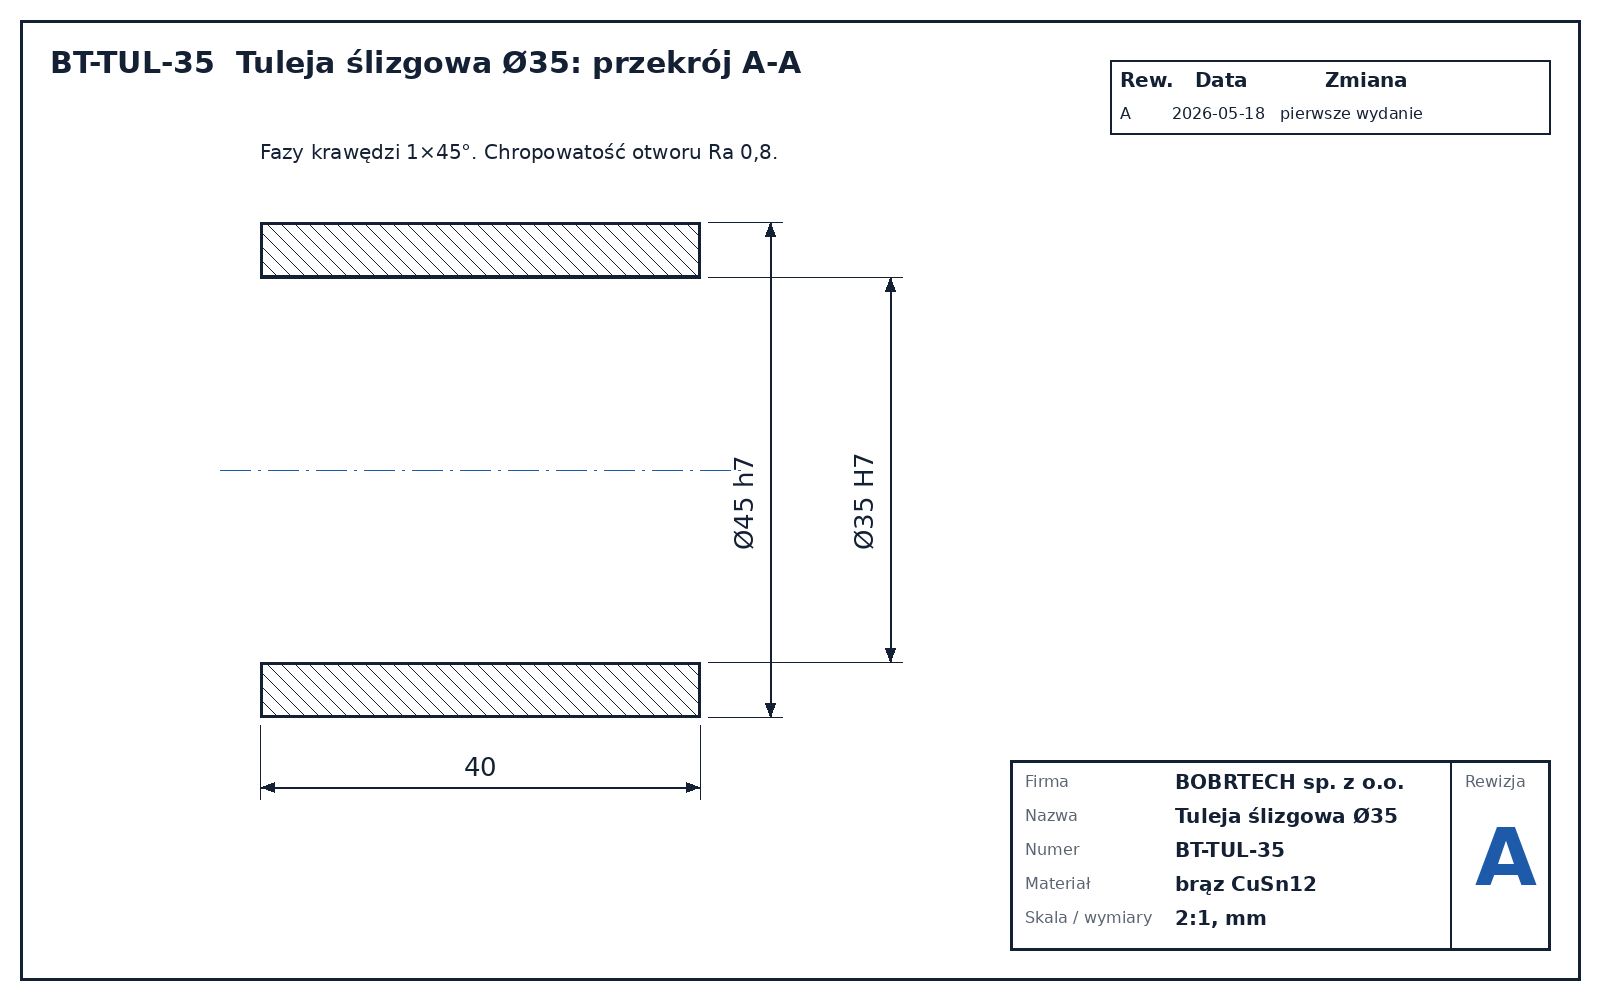
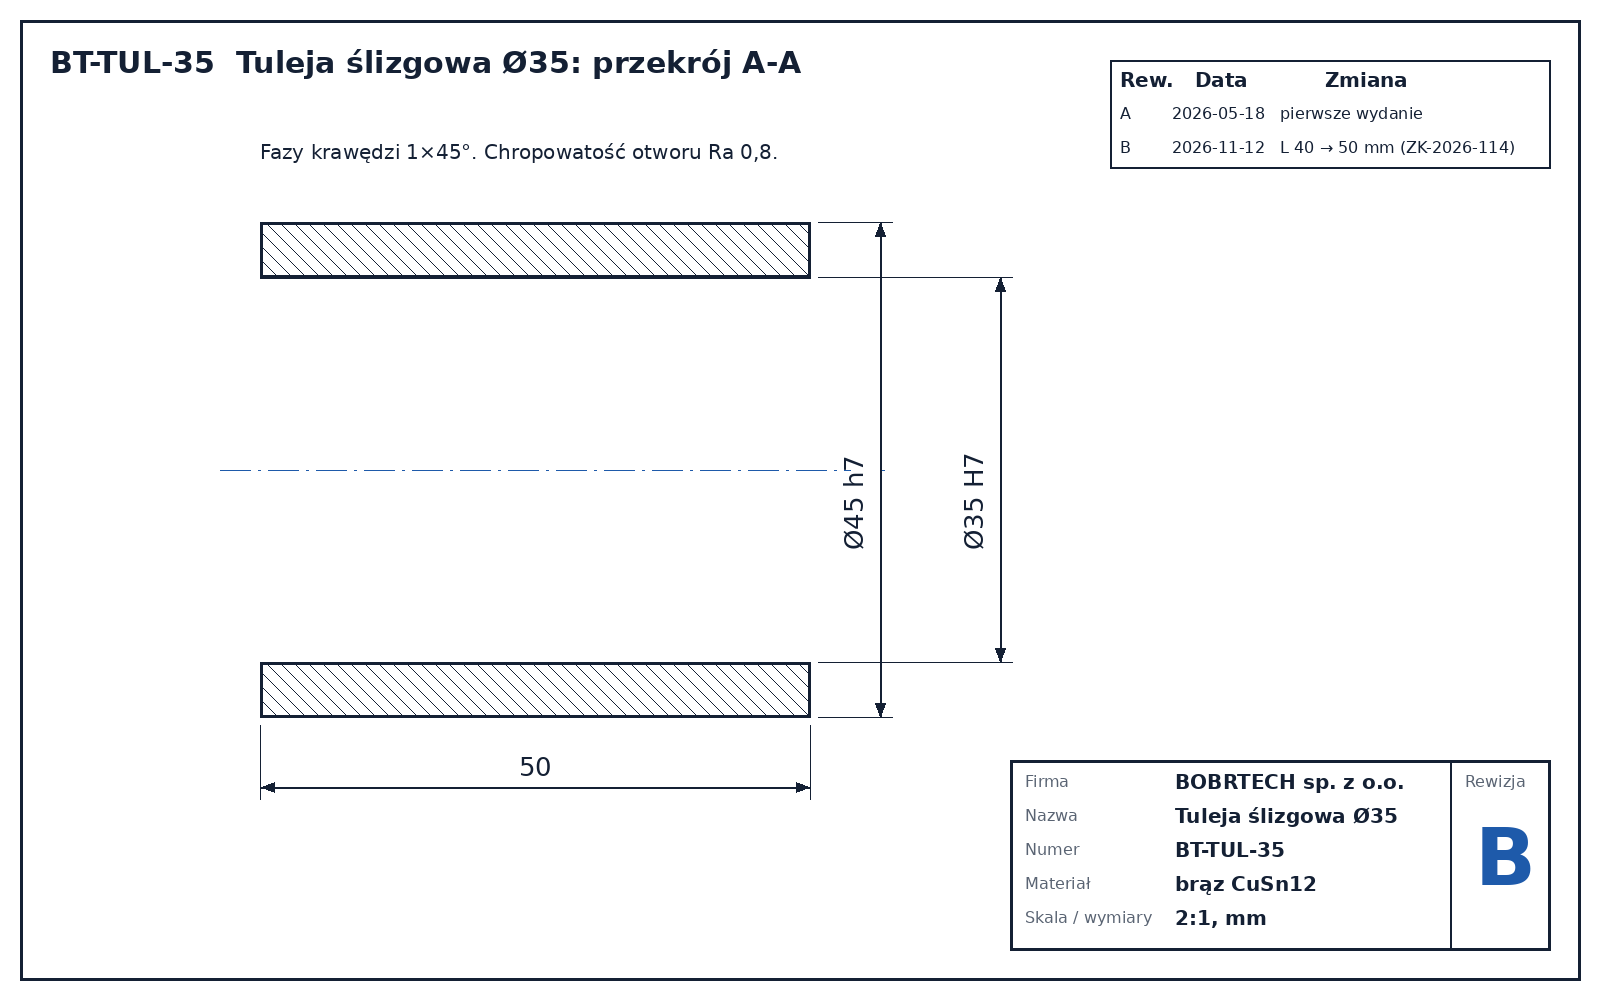
BT-TUL-35 rew. B: długość 40 → 50 mm (ZK-2026-114)
Zmiana na prośbę Landtechnik Weber. Model STL i rysunek PNG w jednym commicie:
GitHub pokaże model 3D i porównanie rysunków (2-up, swipe, onion skin).

diff --git a/cad/README.md b/cad/README.md
@@ -1,6 +1,6 @@
 # cad/: pliki konstrukcyjne w Git (przykład)
 
-Aktualna rewizja: **A**
+Aktualna rewizja: **B**
 
 ## BT-TUL-35 Tuleja ślizgowa Ø35 (CuSn12)
 
@@ -13,6 +13,7 @@ Aktualna rewizja: **A**
 | Rew. | Data | Zmiana | Autor |
 |---|---|---|---|
 | A | 2026-05-18 | pierwsze wydanie, L = 40 mm | Biuro Konstrukcyjne |
+| B | 2026-11-12 | długość L 40 → 50 mm (zlecenie zmiany ZK-2026-114, klient Landtechnik Weber) | Biuro Konstrukcyjne |
 
 ## Zasady
 1. Model natywny i jego eksport (STL lub STEP + rysunek PDF/PNG) zawsze w tym samym commicie.
